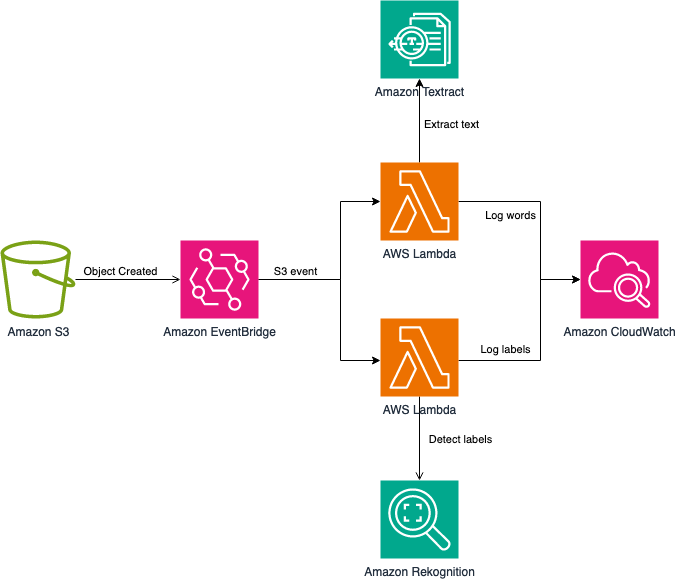
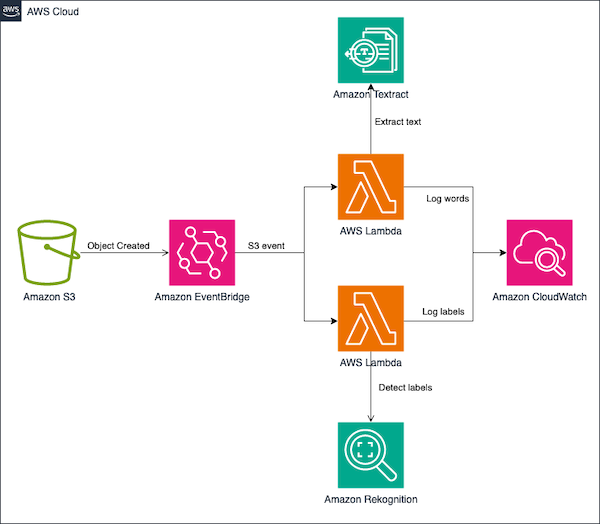
README updated

Changed region(s): [[0.0, 0.0, 1.0, 1.0], [0.0, 0.0, 0.15, 0.0611], [0.0, 0.9771, 0.03, 1.0]]

diff --git a/README.md b/README.md
@@ -1,19 +1,56 @@
 # Advanced Logging Controls Lambda Demo
 
-Advanced Logging Control for AWS Lambda 
+The purpose of this project is to demonstrate how to use the advanced logging controls for Lambda, using AWS SAM to build and deploy the resources in your AWS account.
+
+Using advanced logging controls you can capture logs in JSON structured format, allowing you to quickly search, filter, and analyze large volumes of log entries. You can also control the granularity of logs emitted by the Lambda function to debug and troubleshoot issues more effectively. Lastly, you can now choose the Amazon CloudWatch Log Group where you want to receive you Lambda function logs, making it easier to aggregate and manage logs at scale.
 
 ## Solution Overview
+The following diagram shows how you can use a couple of Lambda functions to process newly created objects inside an Amazon S3 bucket, where both functions emit logs into the same CloudWatch Log Group:
 <p align="center"> 
 <img src="images/s3-event-lambda-detection.png">
 </p>
 
+The architecture includes the following steps:
+1.	A new object is created inside an Amazon S3 bucket.
+2.	Amazon S3 publishes an event using Amazon S3 Event Notifications to Amazon EventBridge.
+3.	EventBridge triggers two Lambda functions asynchronously. 
+4.	Each function processes the object to extract labels and text, using Amazon Rekogniton and Amazon Textract (respectively).
+5.	Both functions then emit logs into the same CloudWatch Log Group.
 
 This project contains source code and supporting files for a serverless application that you can deploy with the SAM CLI. It includes the following files and folders.
 
-- hello-world - Code for the application's Lambda function written in TypeScript.
-- events - Invocation events that you can use to invoke the function.
-- hello-world/tests - Unit tests for the application code. 
-- template.yaml - A template that defines the application's AWS resources.
+- detect-labels - AWS Lambda function code to detect labels inside an image using Amazon Rekognition, written in TypeScript (NodeJS 18.x).
+- extract-text - Lambda function's code to extract text inside an image using Amazon Textract, written in TypeScript (NodeJS 18.x).
+- samples - Sample image(s) you can use to test the application.
+- template.yaml - A template that defines the application's AWS resources, using AWS SAM.
+
+## Deployment
+Clone the repository from the GitHub repository and explore the application. The README file contains additional information.
+
+```bash
+git clone https://github.com/aws-samples/advanced-logging-controls-lambda/ 
+cd advanced-logging-controls-lambda
+```
+
+You can use AWS SAM to build and deploy the resources to your AWS account:
+1. Build the solution using AWS SAM. This will compile and build the application using npm, and then populate the template required to deploy the resources:
+```bash
+sam build
+```
+
+2. Deploy the solution to your AWS account with a guided deployment. Replace the bucket name with a unique name of your choosing:
+```bash
+sam deploy -g --parameter-overrides UploadsBucketName=example-s3-images-bucket
+```
+
+3. Accept the initial defaults.
+
+4. Use AWS CLI to copy an image into the Amazon S3 bucket you just created. You can use the sample image provided:
+```bash
+aws s3 cp samples/skateboard.jpg s3://example-s3-images-bucket
+```
+
+After a few seconds, you can use CloudWatch Logs to view the logs emitted into the log group created, AggregatedLabelsLogGroup:
 
 ## Cleanup
 
@@ -24,6 +61,8 @@ sam delete --stack-name advanced-logging-controls-lambda
 ```
 
 ## Resources
+
+Learn more about [AWS Lambda Advanced Logging Controls](https://aws.amazon.com/lambda/advanced-logging-controls).
 
 See the [AWS SAM developer guide](https://docs.aws.amazon.com/serverless-application-model/latest/developerguide/what-is-sam.html) for an introduction to SAM specification, the SAM CLI, and serverless application concepts.
 
